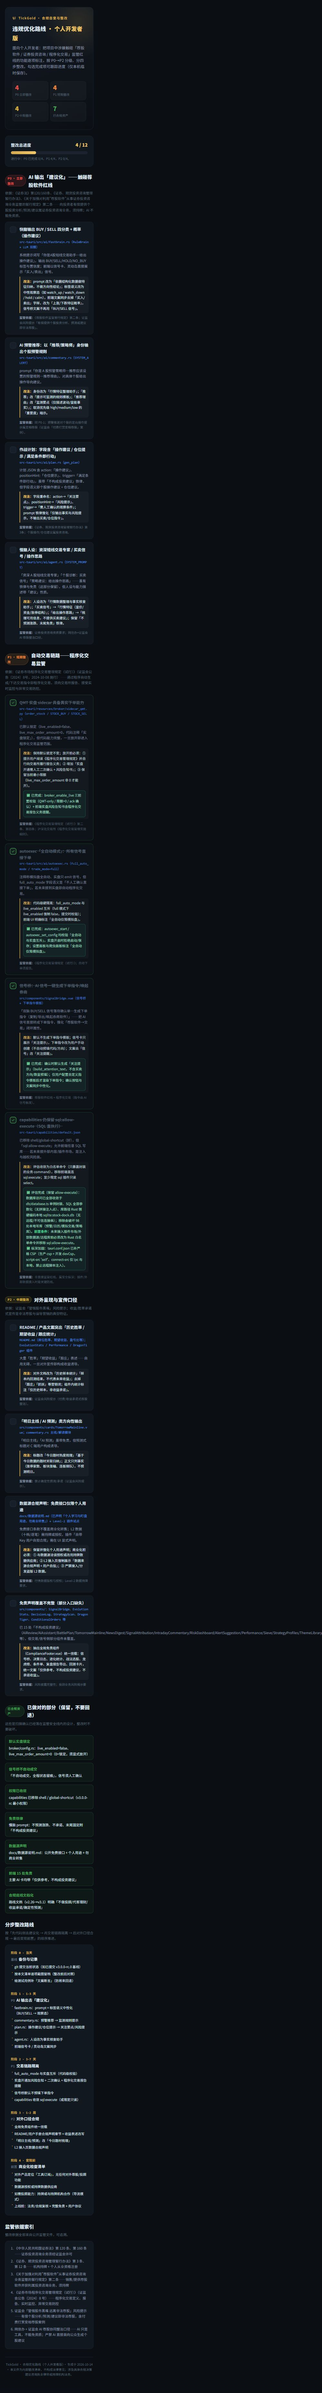
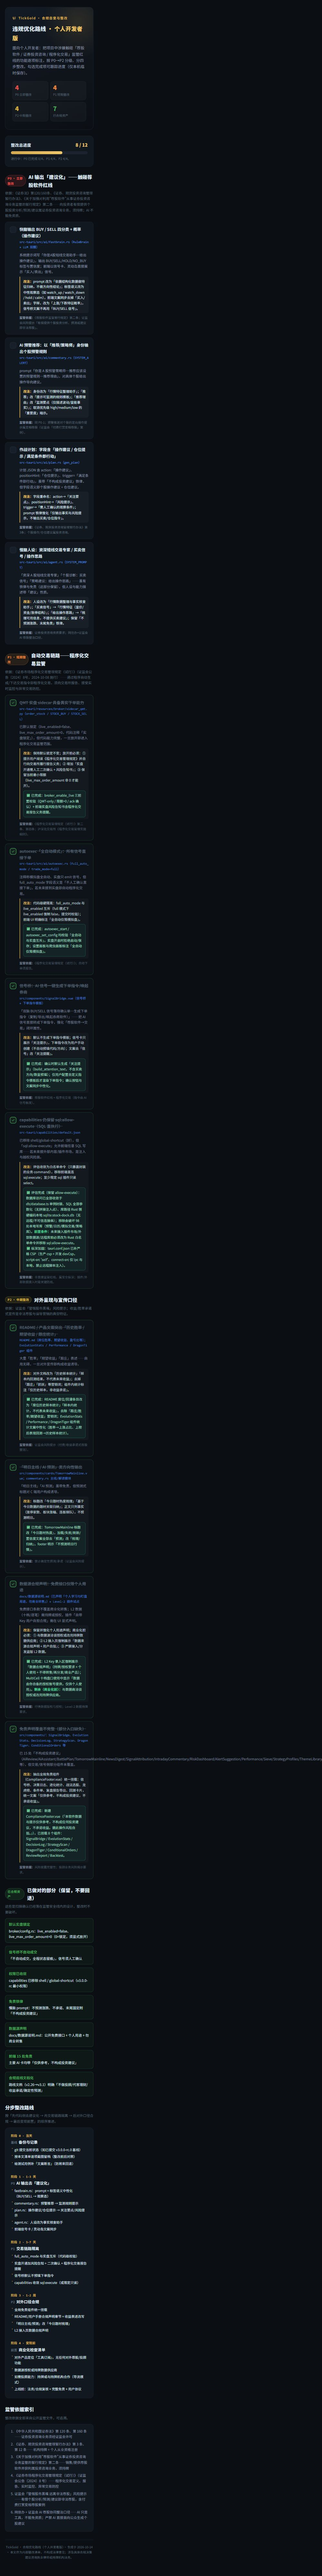
docs: 合规路线更新 P0-P2 全部完成标注（12 项卡片勾选 + 完成说明）

Changed region(s): [[0.0, 0.0, 0.279, 0.9958]]

diff --git a/docs/合规优化路线/违规优化路线.html b/docs/合规优化路线/违规优化路线.html
@@ -262,12 +262,12 @@
 
     <div class="card" data-sev="p2">
       <div class="c-top">
-        <div class="c-check"><input type="checkbox" id="i9"><label for="i9"><svg viewBox="0 0 24 24"><polyline points="20 6 9 17 4 12"/></svg></label></div>
+        <div class="c-check"><input type="checkbox" id="i9" checked><label for="i9"><svg viewBox="0 0 24 24"><polyline points="20 6 9 17 4 12"/></svg></label></div>
         <div class="c-body">
           <div class="c-title">README / 产品文案突出「历史胜率 / 期望收益 / 跟庄统计」</div>
           <div class="c-loc">README.md（席位胜率、期望收益、盈亏比等）；EvolutionStats / Performance / DragonTiger 组件</div>
           <div class="c-desc">大量「胜率」「期望收益」「跟庄」表述——自用无碍，一旦对外宣传即构成收益诱导。</div>
-          <div class="c-fix"><b>改法：</b>对外文档改为「历史样本统计」「样本内回测结果，不代表未来收益」；去掉「跟庄」「抓妖」等营销词；组件内统计标注「仅历史样本，非收益承诺」。</div>
+          <div class="c-fix"><b>改法：</b>对外文档改为「历史样本统计」「样本内回测结果，不代表未来收益」；去掉「跟庄」「抓妖」等营销词；组件内统计标注「仅历史样本，非收益承诺」。<div class="c-done">✅ 已完成：README 席位/回灌条目改为「席位历史样本统计」「样本内统计，不代表未来收益」，去除「跟庄/胜率/期望收益」营销词；EvolutionStats / Performance / DragonTiger 组件统计文案中性化（胜率→上涨占比、上榜后表现回测→历史样本统计）。</div></div>
           <div class="c-law"><b>监管依据：</b>证监会风险提示（付费/收益承诺式荐股整治）。</div>
         </div>
       </div>
@@ -275,12 +275,12 @@
 
     <div class="card" data-sev="p2">
       <div class="c-top">
-        <div class="c-check"><input type="checkbox" id="i10"><label for="i10"><svg viewBox="0 0 24 24"><polyline points="20 6 9 17 4 12"/></svg></label></div>
+        <div class="c-check"><input type="checkbox" id="i10" checked><label for="i10"><svg viewBox="0 0 24 24"><polyline points="20 6 9 17 4 12"/></svg></label></div>
         <div class="c-body">
           <div class="c-title">「明日主线 / AI 预测」类方向性输出</div>
           <div class="c-loc">src/components/cards/TomorrowMainline.vue；commentary.rs 主线/解读模块</div>
           <div class="c-desc">「明日主线」「AI 预测」虽带免责，但预测式标题对 C 端用户构成诱导。</div>
-          <div class="c-fix"><b>改法：</b>标题改「今日题材热度梳理」「基于今日数据的题材关联归纳」；正文只列事实（涨停家数、板块涨幅、连板梯队），不预测明日。</div>
+          <div class="c-fix"><b>改法：</b>标题改「今日题材热度梳理」「基于今日数据的题材关联归纳」；正文只列事实（涨停家数、板块涨幅、连板梯队），不预测明日。<div class="c-done">✅ 已完成：TomorrowMainline 标题改「今日题材热度」，加载/失败/刷新/置信度文案全部去「预测」改「梳理/归纳」，footer 明示「不预测明日行情」。</div></div>
           <div class="c-law"><b>监管依据：</b>禁止确定性预测/承诺（证监会风险提示）。</div>
         </div>
       </div>
@@ -288,12 +288,12 @@
 
     <div class="card" data-sev="p2">
       <div class="c-top">
-        <div class="c-check"><input type="checkbox" id="i11"><label for="i11"><svg viewBox="0 0 24 24"><polyline points="20 6 9 17 4 12"/></svg></label></div>
+        <div class="c-check"><input type="checkbox" id="i11" checked><label for="i11"><svg viewBox="0 0 24 24"><polyline points="20 6 9 17 4 12"/></svg></label></div>
         <div class="c-body">
           <div class="c-title">数据源合规声明：免费接口仅限个人用途</div>
           <div class="c-loc">docs/数据源说明.md（已声明「个人学习与盯盘用途，勿商业转售」）+ Level-2 插件试点</div>
           <div class="c-desc">免费接口条款不覆盖商业化转售；L2 数据（十档/逐笔）需持牌或授权，插件「自带 Key 用户自担合规」需在 UI 显式声明。</div>
-          <div class="c-fix"><b>改法：</b>保留并强化个人用途声明；商业化前必须：① 与数据源洽谈授权或改用持牌数据供应商；② L2 接入页强制展示「数据来源合规声明 + 用户自担」；③ 严禁接入/分发盗版 L2 数据。</div>
+          <div class="c-fix"><b>改法：</b>保留并强化个人用途声明；商业化前必须：① 与数据源洽谈授权或改用持牌数据供应商；② L2 接入页强制展示「数据来源合规声明 + 用户自担」；③ 严禁接入/分发盗版 L2 数据。<div class="c-done">✅ 已完成：L2 Key 录入区强制展示「数据合规声明」（持牌/授权要求 + 个人使用 + 不得转售/再分发/商业产品）；MultiCell 十档盘口使用中显示「数据由你自备的授权账号提供，仅供个人使用」。<b>剩余（商业化前）：</b>与数据商洽谈授权或改用持牌供应商。</div></div>
           <div class="c-law"><b>监管依据：</b>行情数据版权与授权；Level-2 数据持牌要求。</div>
         </div>
       </div>
@@ -301,12 +301,12 @@
 
     <div class="card" data-sev="p2">
       <div class="c-top">
-        <div class="c-check"><input type="checkbox" id="i12"><label for="i12"><svg viewBox="0 0 24 24"><polyline points="20 6 9 17 4 12"/></svg></label></div>
+        <div class="c-check"><input type="checkbox" id="i12" checked><label for="i12"><svg viewBox="0 0 24 24"><polyline points="20 6 9 17 4 12"/></svg></label></div>
         <div class="c-body">
           <div class="c-title">免责声明覆盖不完整（部分入口缺失）</div>
           <div class="c-loc">src/components/：SignalBridge、EvolutionStats、DecisionLog、StrategyScan、DragonTiger、ConditionalOrders 等</div>
           <div class="c-desc">已 15 处「不构成投资建议」（AiReview/AiAssistant/BattlePlan/TomorrowMainline/NewsDigest/SignalAttribution/IntradayCommentary/RiskDashboard/AlertSuggestion/Performance/Sieve/StrategyProfiles/ThemeLibrary 等），但交易/信号侧部分组件未覆盖。</div>
-          <div class="c-fix"><b>改法：</b>抽出全局免责组件（ComplianceFooter.vue）统一挂载：信号桥、决策日志、进化统计、战法选股、龙虎榜、条件单、复盘报告导出、回测卡片，统一文案「仅供参考，不构成投资建议，不承诺收益」。</div>
+          <div class="c-fix"><b>改法：</b>抽出全局免责组件（ComplianceFooter.vue）统一挂载：信号桥、决策日志、进化统计、战法选股、龙虎榜、条件单、复盘报告导出、回测卡片，统一文案「仅供参考，不构成投资建议，不承诺收益」。<div class="c-done">✅ 已完成：新建 ComplianceFooter.vue（「本软件数据与提示仅供参考，不构成任何投资建议，不承诺收益。据此操作风险自担。」），已挂载 8 个组件：SignalBridge / EvolutionStats / DecisionLog / StrategyScan / DragonTiger / ConditionalOrders / ReviewReport / Backtest。</div></div>
           <div class="c-law"><b>监管依据：</b>风险披露完整性；投顾业务风险揭示要求。</div>
         </div>
       </div>
